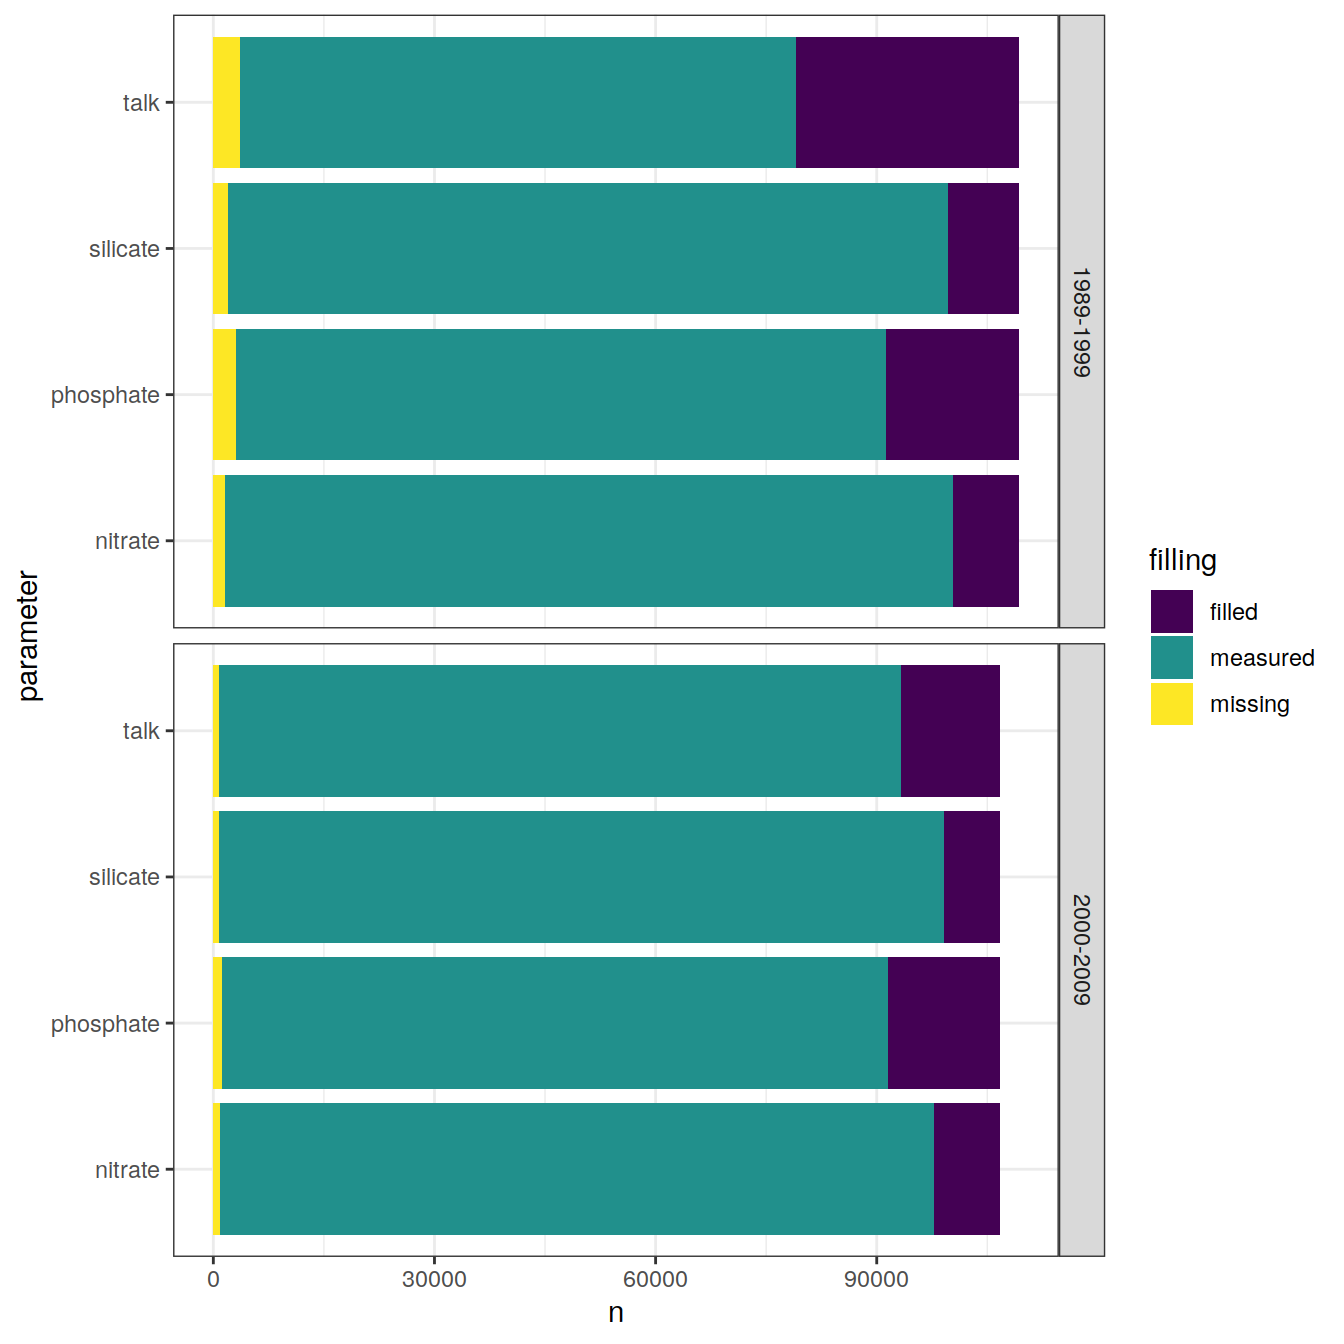
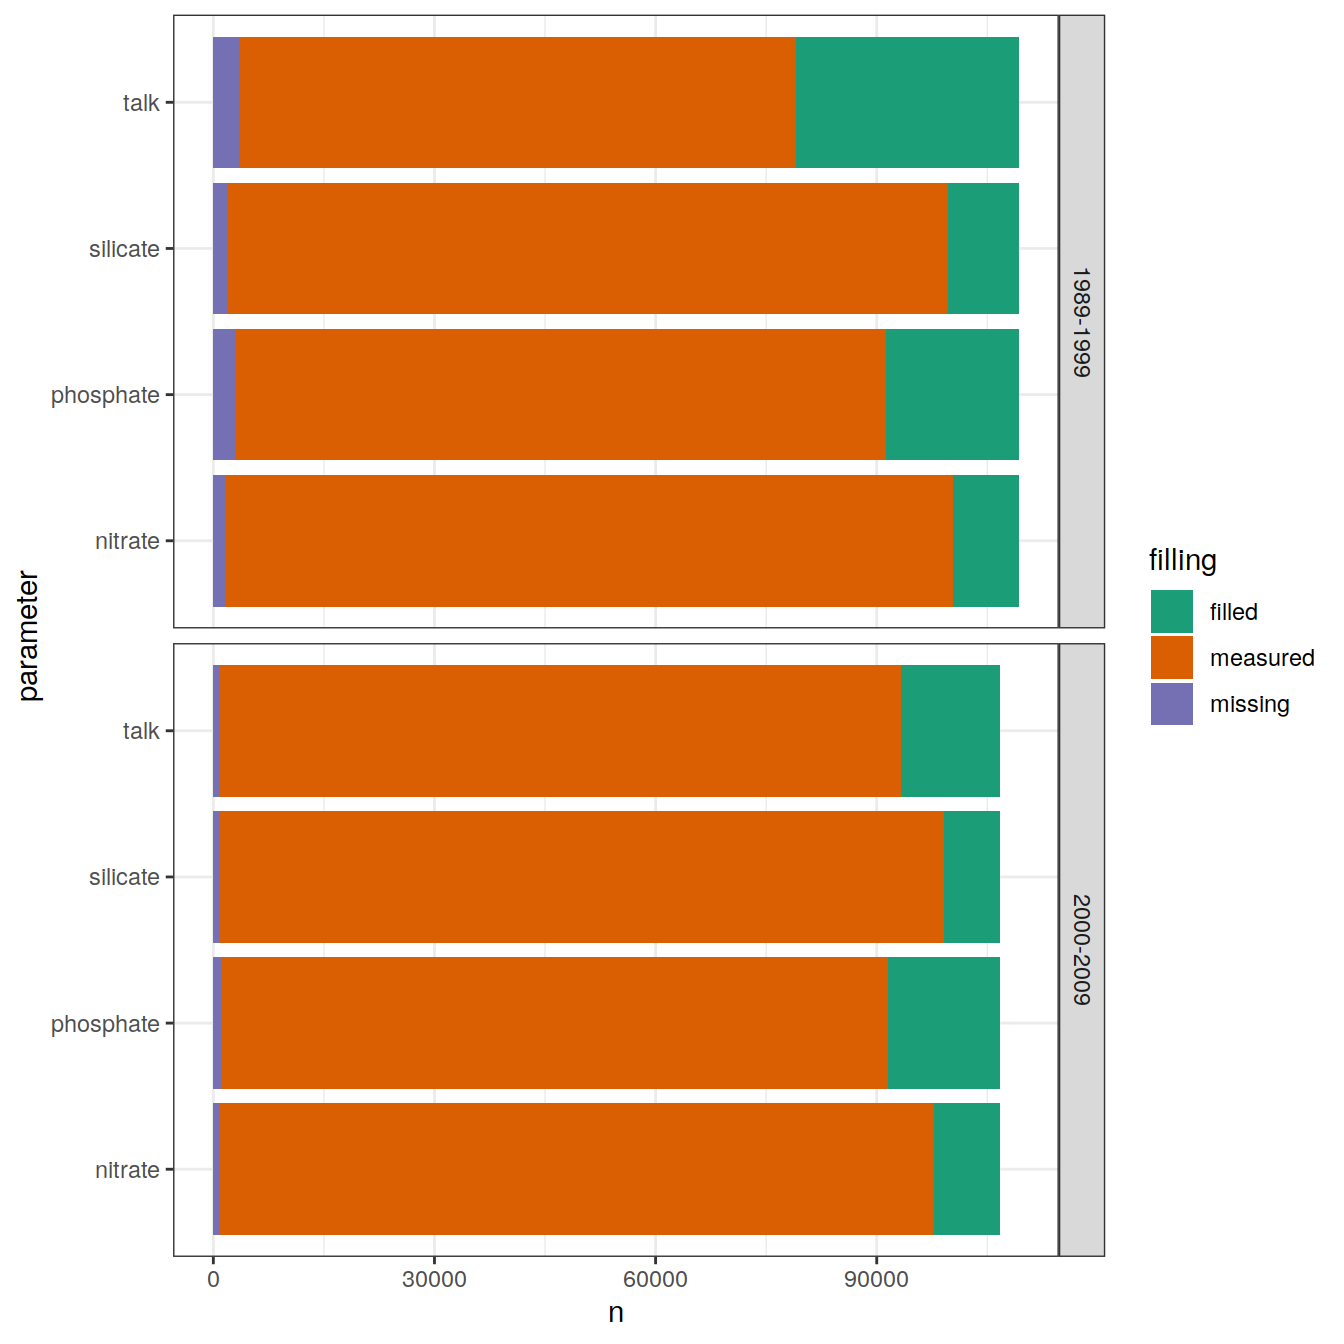
Build site.

diff --git a/docs/eMLR_GLODAPv2_2020_subsetting.html b/docs/eMLR_GLODAPv2_2020_subsetting.html
@@ -574,16 +574,16 @@ This reproducible <a href="http://rmarkdown.rstudio.com">R Markdown</a> analysis
 <div class="panel panel-default">
 <div class="panel-heading">
 <p class="panel-title">
-<a data-toggle="collapse" data-parent="#workflowr-checks" href="#strongRepositoryversionstrongahrefhttpsgithubcomjensdanielmuelleremlrobsvXXXtreecb7624bb25f2f1af22d98b71224fddb9af62aa2ctargetblankcb7624ba"> <span class="glyphicon glyphicon-ok text-success" aria-hidden="true"></span> <strong>Repository version:</strong> <a href="https://github.com/jens-daniel-mueller/emlr_obs_v_XXX/tree/cb7624bb25f2f1af22d98b71224fddb9af62aa2c" target="_blank">cb7624b</a> </a>
+<a data-toggle="collapse" data-parent="#workflowr-checks" href="#strongRepositoryversionstrongahrefhttpsgithubcomjensdanielmuelleremlrobsvXXXtreed7f4df08a60313a5eab3d78e0f29842156535ff5targetblankd7f4df0a"> <span class="glyphicon glyphicon-ok text-success" aria-hidden="true"></span> <strong>Repository version:</strong> <a href="https://github.com/jens-daniel-mueller/emlr_obs_v_XXX/tree/d7f4df08a60313a5eab3d78e0f29842156535ff5" target="_blank">d7f4df0</a> </a>
 </p>
 </div>
[2 lines of base64/hex data omitted]
 <div class="panel-body">
 <p>
 Great! You are using Git for version control. Tracking code development and connecting the code version to the results is critical for reproducibility.
 </p>
 <p>
-The results in this page were generated with repository version <a href="https://github.com/jens-daniel-mueller/emlr_obs_v_XXX/tree/cb7624bb25f2f1af22d98b71224fddb9af62aa2c" target="_blank">cb7624b</a>. See the <em>Past versions</em> tab to see a history of the changes made to the R Markdown and HTML files.
+The results in this page were generated with repository version <a href="https://github.com/jens-daniel-mueller/emlr_obs_v_XXX/tree/d7f4df08a60313a5eab3d78e0f29842156535ff5" target="_blank">d7f4df0</a>. See the <em>Past versions</em> tab to see a history of the changes made to the R Markdown and HTML files.
 </p>
 <p>
 Note that you need to be careful to ensure that all relevant files for the analysis have been committed to Git prior to generating the results (you can use <code>wflow_publish</code> or <code>wflow_git_commit</code>). workflowr only checks the R Markdown file, but you know if there are other scripts or data files that it depends on. Below is the status of the Git repository when the results were generated:
@@ -592,9 +592,6 @@ Note that you need to be careful to ensure that all relevant files for the analy
 Ignored files:
     Ignored:    .Rhistory
     Ignored:    .Rproj.user/
-
-Unstaged changes:
-    Modified:   code/Workflowr_project_managment.R
 
 </code></pre>
 <p>
@@ -633,6 +630,40 @@ Message
 </tr>
 </thead>
 <tbody>
+<tr>
+<td>
+Rmd
+</td>
+<td>
+<a href="https://github.com/jens-daniel-mueller/emlr_obs_v_XXX/blob/d7f4df08a60313a5eab3d78e0f29842156535ff5/analysis/eMLR_GLODAPv2_2020_subsetting.Rmd" target="_blank">d7f4df0</a>
+</td>
+<td>
+jens-daniel-mueller
+</td>
+<td>
+2021-10-21
+</td>
+<td>
+revised flag mapping
+</td>
+</tr>
+<tr>
+<td>
+html
+</td>
+<td>
+<a href="https://rawcdn.githack.com/jens-daniel-mueller/emlr_obs_v_XXX/f9280c73fc4edb802d5057c3b25f8e77bffbf715/docs/eMLR_GLODAPv2_2020_subsetting.html" target="_blank">f9280c7</a>
+</td>
+<td>
+jens-daniel-mueller
+</td>
+<td>
+2021-10-21
+</td>
+<td>
+Build site.
+</td>
+</tr>
 <tr>
 <td>
 html
@@ -14868,7 +14899,7 @@ GLODAP_filling_long %&gt;%
   coord_flip() +
   geom_col() +
   facet_grid(era~.) +
-  scale_fill_viridis_d()
+  scale_fill_brewer(palette = &quot;Dark2&quot;)
 )
 
 GLODAP &lt;- GLODAP %&gt;% 
@@ -15477,8 +15508,8 @@ jens-daniel-mueller
 </div>
 </div>
 </div>
-<div id="flags-and-missing-data" class="section level2" number="3.5">
-<h2 number="3.5"><span class="header-section-number">3.5</span> Flags and missing data</h2>
+<div id="flags-and-na" class="section level2" number="3.5">
+<h2 number="3.5"><span class="header-section-number">3.5</span> Flags and NA</h2>
 <p>Only rows (samples) for which all relevant parameters are available were selected, ie NA’s were removed.</p>
 <p>According to Olsen et al (2020), flags within the merged master file identify:</p>
 <ul>
@@ -15502,17 +15533,23 @@ jens-daniel-mueller
 </ul>
 <p>The cleaning process was performed successively and the maps below represent the data coverage at various cleaning levels.</p>
 <p>Summary statistics were calculated during cleaning process.</p>
-<div id="na-maps" class="section level3" number="3.5.1">
-<h3 number="3.5.1"><span class="header-section-number">3.5.1</span> NA maps</h3>
+<div id="na" class="section level3" number="3.5.1">
+<h3 number="3.5.1"><span class="header-section-number">3.5.1</span> NA</h3>
 <pre class="r"><code>GLODAP_NA &lt;- GLODAP %&gt;% 
   select(lon, lat, era, tco2, talk, params_local$MLR_predictors) %&gt;% 
   pivot_longer(tco2:silicate,
                names_to = &quot;parameter&quot;,
                values_to = &quot;value&quot;) %&gt;%
-  mutate(NA_flag = if_else(is.na(value), &quot;NA&quot;, &quot;available&quot;)) %&gt;% 
-  count(lat, lon, era, parameter, NA_flag)
+  mutate(NA_flag = if_else(is.na(value), &quot;NA&quot;, &quot;available&quot;))
 
-GLODAP_NA %&gt;%
+GLODAP_NA_stats &lt;- GLODAP_NA %&gt;% 
+  count(era, parameter, NA_flag)
+
+GLODAP_NA &lt;- GLODAP_NA %&gt;% 
+  count(lat, lon, era, parameter, NA_flag)</code></pre>
+<div id="maps" class="section level4" number="3.5.1.1">
+<h4 number="3.5.1.1"><span class="header-section-number">3.5.1.1</span> Maps</h4>
+<pre class="r"><code>GLODAP_NA %&gt;%
   group_split(NA_flag) %&gt;%
   # head(1) %&gt;%
   map(
@@ -15634,16 +15671,34 @@ jens-daniel-mueller
 </div>
 <pre class="r"><code>rm(GLODAP_NA)  </code></pre>
 </div>
-<div id="f-flag-maps" class="section level3" number="3.5.2">
-<h3 number="3.5.2"><span class="header-section-number">3.5.2</span> f flag maps</h3>
+<div id="stats" class="section level4" number="3.5.1.2">
+<h4 number="3.5.1.2"><span class="header-section-number">3.5.1.2</span> Stats</h4>
+<pre class="r"><code>GLODAP_NA_stats %&gt;% 
+  ggplot(aes(parameter, n, fill = NA_flag)) +
+  coord_flip() +
+  geom_col() +
+  facet_grid(era~.) +
+  scale_fill_brewer(palette = &quot;Dark2&quot;)</code></pre>
+<p><img src="figure/eMLR_GLODAPv2_2020_subsetting.Rmd/NA_stats-1.png" width="672" style="display: block; margin: auto;" /></p>
+<pre class="r"><code>rm(GLODAP_NA_stats)</code></pre>
+</div>
+</div>
+<div id="f-flag" class="section level3" number="3.5.2">
+<h3 number="3.5.2"><span class="header-section-number">3.5.2</span> f flag</h3>
 <pre class="r"><code>GLODAP_f_flags &lt;- GLODAP %&gt;% 
   select(lon, lat, era, ends_with(&quot;f&quot;)) %&gt;% 
   pivot_longer(aouf:tco2f,
                names_to = &quot;parameter&quot;,
-               values_to = &quot;value&quot;) %&gt;% 
-  count(lat, lon, era, parameter, value)
+               values_to = &quot;value&quot;)
 
-GLODAP_f_flags %&gt;%
+GLODAP_f_flags_stats &lt;- GLODAP_f_flags %&gt;% 
+  count(era, parameter, value)
+
+GLODAP_f_flags &lt;- GLODAP_f_flags %&gt;% 
+  count(lat, lon, era, parameter, value)</code></pre>
+<div id="maps-1" class="section level4" number="3.5.2.1">
+<h4 number="3.5.2.1"><span class="header-section-number">3.5.2.1</span> Maps</h4>
+<pre class="r"><code>GLODAP_f_flags %&gt;%
   group_split(value) %&gt;%
   # head(1) %&gt;%
   map(
@@ -15849,8 +15904,21 @@ jens-daniel-mueller
 </div>
 <pre class="r"><code>rm(GLODAP_f_flags)</code></pre>
 </div>
-<div id="qc-flag-maps" class="section level3" number="3.5.3">
-<h3 number="3.5.3"><span class="header-section-number">3.5.3</span> qc flag maps</h3>
+<div id="stats-1" class="section level4" number="3.5.2.2">
+<h4 number="3.5.2.2"><span class="header-section-number">3.5.2.2</span> Stats</h4>
+<pre class="r"><code>GLODAP_f_flags_stats %&gt;% 
+  mutate(value = as.factor(value)) %&gt;% 
+  ggplot(aes(parameter, n, fill = value)) +
+  coord_flip() +
+  geom_col() +
+  facet_grid(era~.) +
+  scale_fill_brewer(palette = &quot;Dark2&quot;)</code></pre>
+<p><img src="figure/eMLR_GLODAPv2_2020_subsetting.Rmd/f_flag_stats-1.png" width="672" style="display: block; margin: auto;" /></p>
+<pre class="r"><code>rm(GLODAP_f_flags_stats)</code></pre>
+</div>
+</div>
+<div id="qc-flag" class="section level3" number="3.5.3">
+<h3 number="3.5.3"><span class="header-section-number">3.5.3</span> qc flag</h3>
 <pre class="r"><code>GLODAP_qc_flags &lt;- GLODAP %&gt;% 
   select(lon, lat, era, ends_with(&quot;qc&quot;)) %&gt;% 
   pivot_longer(nitrateqc:tco2qc,
@@ -15858,7 +15926,14 @@ jens-daniel-mueller
                values_to = &quot;value&quot;) %&gt;% 
   count(lat, lon, era, parameter, value)
 
-GLODAP_qc_flags %&gt;%
+GLODAP_qc_flags_stats &lt;- GLODAP_qc_flags %&gt;% 
+  count(era, parameter, value)
+
+GLODAP_qc_flags &lt;- GLODAP_qc_flags %&gt;% 
+  count(lat, lon, era, parameter, value)</code></pre>
+<div id="maps-2" class="section level4" number="3.5.3.1">
+<h4 number="3.5.3.1"><span class="header-section-number">3.5.3.1</span> Maps</h4>
+<pre class="r"><code>GLODAP_qc_flags %&gt;%
   group_split(value) %&gt;%
   # head(1) %&gt;%
   map(
@@ -15979,6 +16054,19 @@ jens-daniel-mueller
 </div>
 </div>
 <pre class="r"><code>rm(GLODAP_qc_flags)</code></pre>
+</div>
+<div id="stats-2" class="section level4" number="3.5.3.2">
+<h4 number="3.5.3.2"><span class="header-section-number">3.5.3.2</span> Stats</h4>
+<pre class="r"><code>GLODAP_qc_flags_stats %&gt;% 
+  mutate(value = as.factor(value)) %&gt;% 
+  ggplot(aes(parameter, n, fill = value)) +
+  coord_flip() +
+  geom_col() +
+  facet_grid(era~.) +
+  scale_fill_brewer(palette = &quot;Dark2&quot;)</code></pre>
+<p><img src="figure/eMLR_GLODAPv2_2020_subsetting.Rmd/qc_flag_stats-1.png" width="672" style="display: block; margin: auto;" /></p>
+<pre class="r"><code>rm(GLODAP_qc_flags_stats)</code></pre>
+</div>
 </div>
 <div id="apply-filter" class="section level3" number="3.5.4">
 <h3 number="3.5.4"><span class="header-section-number">3.5.4</span> Apply filter</h3>
@@ -16775,35 +16863,16 @@ jens-daniel-mueller
 </div>
 </div>
 </div>
-<div id="cleaning-stats" class="section level2" number="4.2">
-<h2 number="4.2"><span class="header-section-number">4.2</span> Cleaning stats</h2>
-<p>Number of observations at various steps of data cleaning.</p>
-<pre class="r"><code>cruise_stats_global_long &lt;- cruise_stats_global %&gt;%
-  pivot_longer(1:length(cruise_stats_global),
-               names_to = &quot;parameter&quot;,
-               values_to = &quot;n&quot;)
-
-cruise_stats_global_long &lt;- cruise_stats_global_long %&gt;%
-  mutate(parameter = fct_reorder(parameter, n))
-
-cruise_stats_global_long %&gt;% 
-  ggplot(aes(parameter, n/1000)) +
-  geom_col() +
-  coord_flip() +
-  theme(axis.title.y = element_blank())
-
-rm(cruise_stats_global_long)</code></pre>
-</div>
-<div id="assign-coarse-spatial-grid" class="section level2" number="4.3">
-<h2 number="4.3"><span class="header-section-number">4.3</span> Assign coarse spatial grid</h2>
+<div id="assign-coarse-spatial-grid" class="section level2" number="4.2">
+<h2 number="4.2"><span class="header-section-number">4.2</span> Assign coarse spatial grid</h2>
 <p>For the following plots, the cleaned data set was re-opened and observations were gridded spatially to intervals of:</p>
 <ul>
 <li>5° x 5°</li>
 </ul>
 <pre class="r"><code>GLODAP &lt;- m_grid_horizontal_coarse(GLODAP)</code></pre>
 </div>
-<div id="histogram-zonal-coverage" class="section level2" number="4.4">
-<h2 number="4.4"><span class="header-section-number">4.4</span> Histogram Zonal coverage</h2>
+<div id="histogram-zonal-coverage" class="section level2" number="4.3">
+<h2 number="4.3"><span class="header-section-number">4.3</span> Histogram Zonal coverage</h2>
 <pre class="r"><code>GLODAP_histogram_lat &lt;- GLODAP %&gt;%
   group_by(era, lat_grid, basin_AIP) %&gt;%
   tally() %&gt;%
@@ -17880,8 +17949,8 @@ jens-daniel-mueller
 </div>
 <pre class="r"><code>rm(GLODAP_histogram_lat)</code></pre>
 </div>
-<div id="histogram-temporal-coverage" class="section level2" number="4.5">
-<h2 number="4.5"><span class="header-section-number">4.5</span> Histogram temporal coverage</h2>
+<div id="histogram-temporal-coverage" class="section level2" number="4.4">
+<h2 number="4.4"><span class="header-section-number">4.4</span> Histogram temporal coverage</h2>
 <pre class="r"><code>GLODAP_histogram_year &lt;- GLODAP %&gt;%
   group_by(year, basin_AIP) %&gt;%
   tally() %&gt;%
@@ -19016,8 +19085,8 @@ jens-daniel-mueller
 <pre class="r"><code>rm(GLODAP_histogram_year,
    era_median_year)</code></pre>
 </div>
-<div id="zonal-temporal-coverage-hovmoeller" class="section level2" number="4.6">
-<h2 number="4.6"><span class="header-section-number">4.6</span> Zonal temporal coverage (Hovmoeller)</h2>
+<div id="zonal-temporal-coverage-hovmoeller" class="section level2" number="4.5">
+<h2 number="4.5"><span class="header-section-number">4.5</span> Zonal temporal coverage (Hovmoeller)</h2>
 <pre class="r"><code>GLODAP_hovmoeller_year &lt;- GLODAP %&gt;%
   group_by(year, lat_grid, basin_AIP) %&gt;%
   tally() %&gt;%
@@ -20097,32 +20166,10 @@ jens-daniel-mueller
 </div>
 <pre class="r"><code>rm(GLODAP_hovmoeller_year)</code></pre>
 </div>
-<div id="coverage-maps-by-era" class="section level2" number="4.7">
-<h2 number="4.7"><span class="header-section-number">4.7</span> Coverage maps by era</h2>
-<div id="subsetting-process" class="section level3" number="4.7.1">
-<h3 number="4.7.1"><span class="header-section-number">4.7.1</span> Subsetting process</h3>
-<p>The following plots show the remaining data after <strong>individual cleaning steps</strong>, separately for each era.</p>
-<pre class="r"><code>GLODAP_obs_grid &lt;- GLODAP_obs_grid %&gt;%
-  mutate(cleaning_level = factor(
-           cleaning_level,
-           unique(GLODAP_obs_grid$cleaning_level)
-         ))
-
-map +
-  geom_raster(data = GLODAP_obs_grid %&gt;%
-                filter(cleaning_level == &quot;tco2_values&quot;) %&gt;%
-                select(-cleaning_level),
-              aes(lon, lat, fill = &quot;tco2_values&quot;)) +
-  geom_raster(data = GLODAP_obs_grid %&gt;%
-                filter(cleaning_level != &quot;tco2_values&quot;),
-              aes(lon, lat, fill = &quot;subset&quot;)) +
-  scale_fill_brewer(palette = &quot;Set1&quot;, name = &quot;&quot;) +
-  facet_grid(cleaning_level ~ era) +
-  theme(legend.position = &quot;top&quot;,
-        axis.title = element_blank())</code></pre>
-</div>
-<div id="final-input-data" class="section level3" number="4.7.2">
-<h3 number="4.7.2"><span class="header-section-number">4.7.2</span> Final input data</h3>
+<div id="coverage-maps-by-era" class="section level2" number="4.6">
+<h2 number="4.6"><span class="header-section-number">4.6</span> Coverage maps by era</h2>
+<div id="final-input-data" class="section level3" number="4.6.1">
+<h3 number="4.6.1"><span class="header-section-number">4.6.1</span> Final input data</h3>
 <p>The following plots show the remaining data density in each grid cell <strong>after all cleaning steps</strong>, separately for each era.</p>
 <pre class="r"><code>GLODAP_tco2_grid &lt;- GLODAP %&gt;%
   count(lat, lon)
@@ -21225,8 +21272,8 @@ jens-daniel-mueller
        width = 5)</code></pre>
 </div>
 </div>
-<div id="model-vs-observation" class="section level2" number="4.8">
-<h2 number="4.8"><span class="header-section-number">4.8</span> Model vs observation</h2>
+<div id="model-vs-observation" class="section level2" number="4.7">
+<h2 number="4.7"><span class="header-section-number">4.7</span> Model vs observation</h2>
 <pre class="r"><code>variables &lt;-
   c(
     &quot;temp&quot;,
